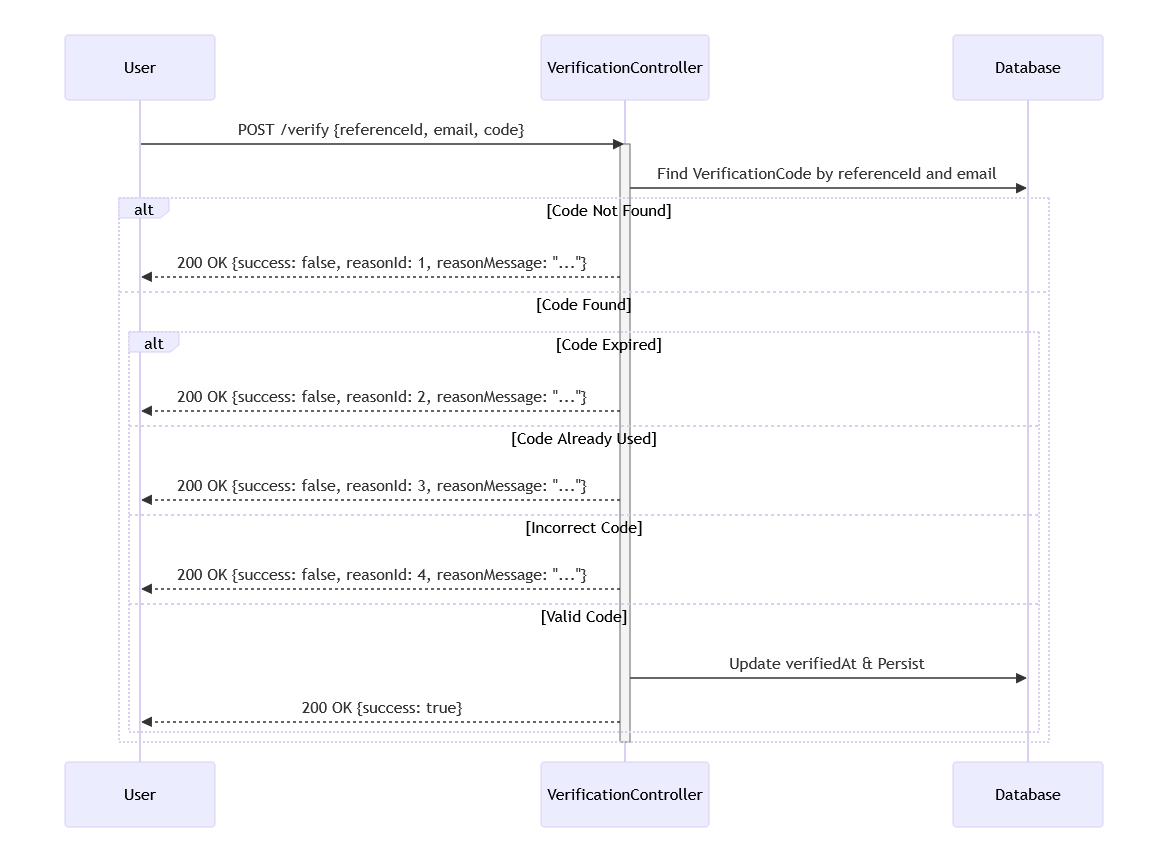
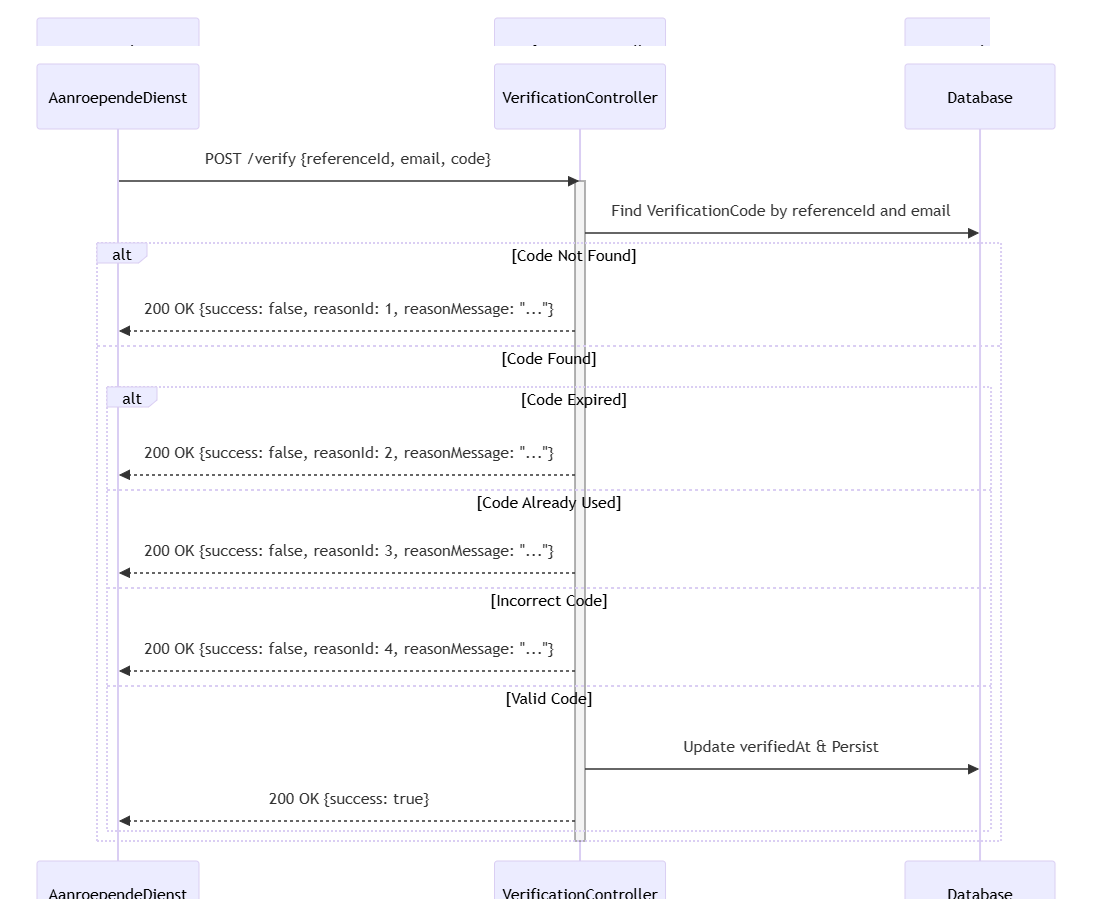
VerificatieService WorkspaceDSL
User -> AanroependeDienst
Workspace DSL uitgebreid

diff --git a/Docs/structurizr/verificatieservicedocs/07-code.md b/Docs/structurizr/verificatieservicedocs/07-code.md
@@ -20,18 +20,18 @@ Deze flow beschrijft hoe een verificatie verzoek wordt aangemaakt en asynchroon 
   <summary>Zie mermaid code</summary>
     
     sequenceDiagram
-        participant User
+        participant AanroependeDienst
         participant VC as VerificationController
         participant DB as Database
         participant RMQ as RabbitMQ
         participant VRH as VerificationRequestHandler
         participant NNL as NotifyNLService
     
-        User->>VC: POST /request {email}
+        AanroependeDienst->>VC: POST /request {email}
         activate VC
         VC->>DB: Create & Persist VerificationCode
         VC->>RMQ: Send Code ID to 'verification-requests'
-        VC-->>User: 200 OK (Reference ID)
+        VC-->>AanroependeDienst: 200 OK (Reference ID)
         deactivate VC
     
         Note over RMQ, VRH: Asynchronous Processing with Retry & Fallback
@@ -72,26 +72,26 @@ Deze flow beschrijft hoe een gebruiker zijn email verifieërt met de ontvangen c
   <summary>Zie mermaid code</summary>
 
         sequenceDiagram
-            participant User
+            participant AanroependeDienst
             participant VC as VerificationController
             participant DB as Database
         
-            User->>VC: POST /verify {referenceId, email, code}
+            AanroependeDienst->>VC: POST /verify {referenceId, email, code}
             activate VC
             VC->>DB: Find VerificationCode by referenceId and email
             
             alt Code Not Found
-                VC-->>User: 200 OK {success: false, reasonId: 1, reasonMessage: "..."}
+                VC-->>AanroependeDienst: 200 OK {success: false, reasonId: 1, reasonMessage: "..."}
             else Code Found
                 alt Code Expired
-                    VC-->>User: 200 OK {success: false, reasonId: 2, reasonMessage: "..."}
+                    VC-->>AanroependeDienst: 200 OK {success: false, reasonId: 2, reasonMessage: "..."}
                 else Code Already Used
-                    VC-->>User: 200 OK {success: false, reasonId: 3, reasonMessage: "..."}
+                    VC-->>AanroependeDienst: 200 OK {success: false, reasonId: 3, reasonMessage: "..."}
                 else Incorrect Code
-                    VC-->>User: 200 OK {success: false, reasonId: 4, reasonMessage: "..."}
+                    VC-->>AanroependeDienst: 200 OK {success: false, reasonId: 4, reasonMessage: "..."}
                 else Valid Code
                     VC->>DB: Update verifiedAt & Persist
-                    VC-->>User: 200 OK {success: true}
+                    VC-->>AanroependeDienst: 200 OK {success: true}
                 end
             end
             deactivate VC
